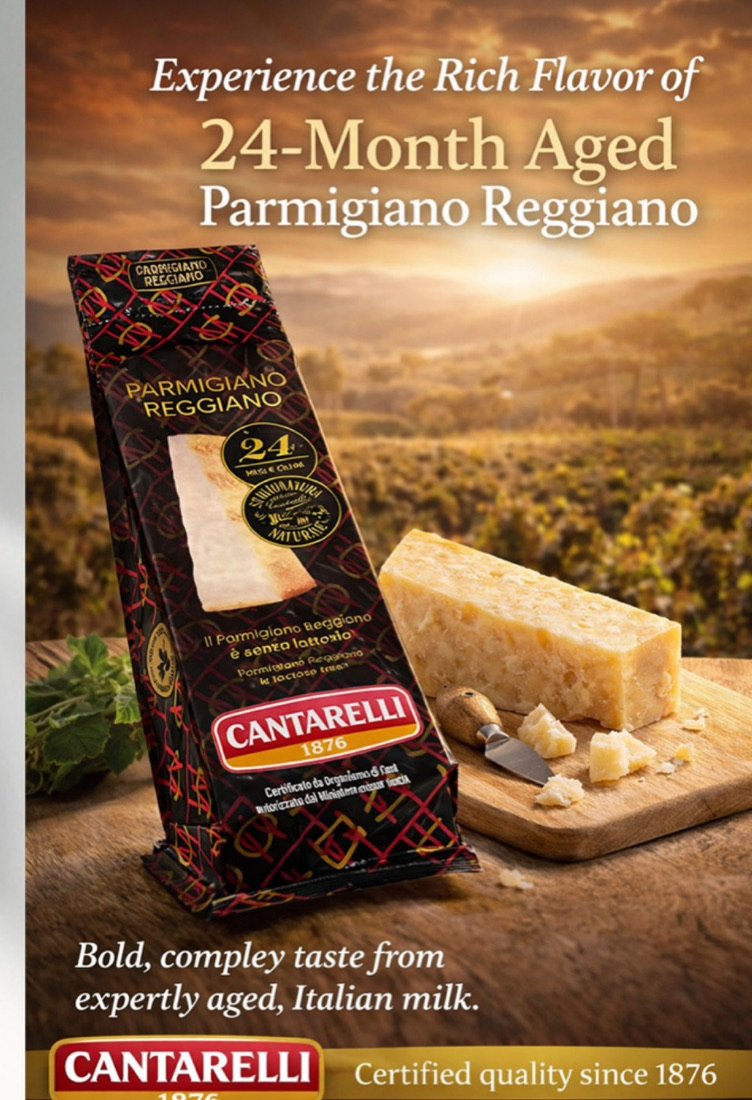
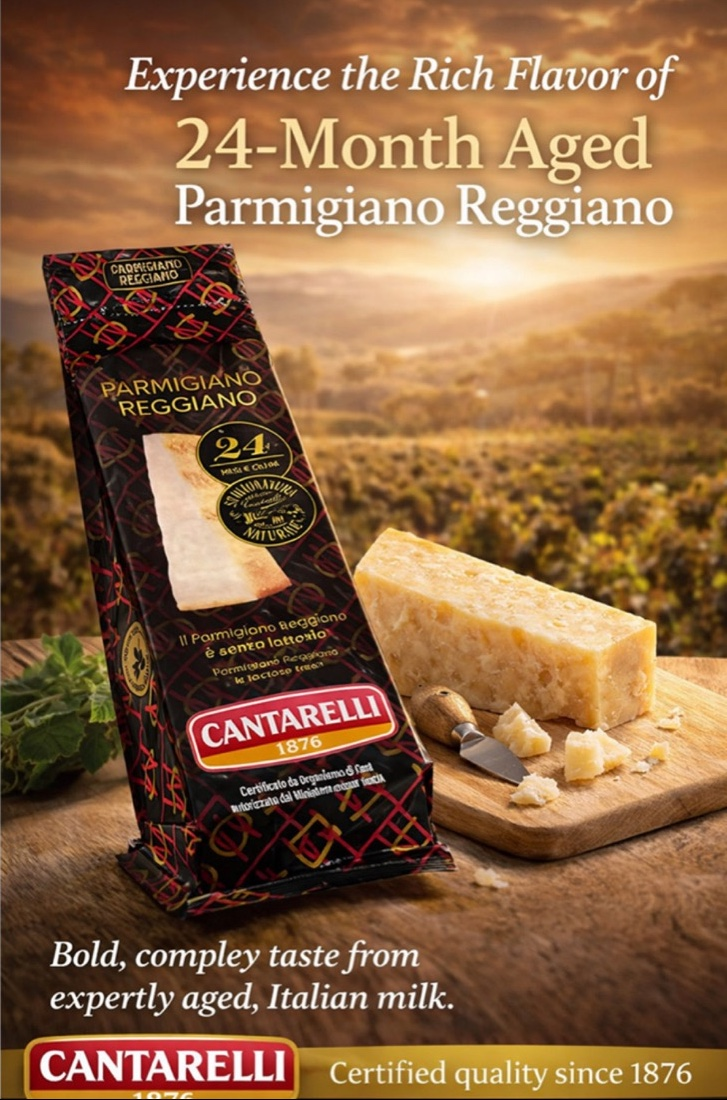
Product tiles: taller, whole photo over a blurred fill; trim poster borders

diff --git a/fr/index.html b/fr/index.html
@@ -21,7 +21,7 @@
 <link rel="preconnect" href="https://fonts.googleapis.com">
 <link rel="preconnect" href="https://fonts.gstatic.com" crossorigin>
 <link rel="stylesheet" href="https://fonts.googleapis.com/css2?family=Archivo:wdth,wght@100,500;100,600;112,600;112,700&family=Figtree:wght@400;500;600&display=swap">
-<link rel="stylesheet" href="/assets/css/site.css?v=c4ff51fc">
+<link rel="stylesheet" href="/assets/css/site.css?v=2146e703">
 <script src="/assets/js/site.js?v=d5d91cc8" defer></script>
 <script type="application/ld+json">{"@context": "https://schema.org", "@type": "WholesaleStore", "name": "Les Aliments Joe & Ray", "legalName": "Les Aliments Joe & Ray Ltée", "url": "https://alimentsjoeandray.com/fr/", "logo": "https://alimentsjoeandray.com/assets/img/logo.png", "image": "https://alimentsjoeandray.com/assets/img/hero-full.webp", "foundingDate": "1954", "telephone": "+1-514-729-6470", "faxNumber": "+1-514-376-9167", "description": "Importateur et distributeur familial à Saint-Léonard au service des restaurants, pizzerias, traiteurs et détaillants du Québec. Plus de 2 000 produits. Licence de l’ACIA.", "areaServed": "Quebec", "address": {"@type": "PostalAddress", "streetAddress": "6506 P.E. Lamarche", "addressLocality": "Saint-Léonard", "addressRegion": "QC", "postalCode": "H1P 1J4", "addressCountry": "CA"}}</script><script type="application/ld+json">{"@context": "https://schema.org", "@type": "FAQPage", "mainEntity": [{"@type": "Question", "name": "Quelles régions desservez-vous?", "acceptedAnswer": {"@type": "Answer", "text": "Nous distribuons partout au Québec et dans les régions avoisinantes."}}, {"@type": "Question", "name": "Comment devenir client?", "acceptedAnswer": {"@type": "Answer", "text": "Remplissez le formulaire ci-dessous ou appelez-nous au 514.729.6470. Nous ouvrirons votre compte et vos prix."}}, {"@type": "Question", "name": "Quel est votre minimum de commande?", "acceptedAnswer": {"@type": "Answer", "text": "500 $ pour les livraisons locales."}}, {"@type": "Question", "name": "Quels sont vos délais de livraison?", "acceptedAnswer": {"@type": "Answer", "text": "Les délais de livraison varient selon l’emplacement. Appelez-nous au 514.729.6470 pour connaître l’horaire de votre secteur."}}, {"@type": "Question", "name": "Puis-je avoir des commandes récurrentes?", "acceptedAnswer": {"@type": "Answer", "text": "Oui. Nous offrons des livraisons récurrentes selon l’horaire de votre cuisine."}}, {"@type": "Question", "name": "Puis-je passer une commande sur mesure?", "acceptedAnswer": {"@type": "Answer", "text": "Oui. Nous collaborons avec nos fournisseurs pour trouver des produits spécialisés pour votre entreprise."}}, {"@type": "Question", "name": "Quelles sont vos spécialités?", "acceptedAnswer": {"@type": "Answer", "text": "Les charcuteries, les fromages et les produits importés, surtout italiens."}}, {"@type": "Question", "name": "Offrez-vous des produits d’entretien et de papier?", "acceptedAnswer": {"@type": "Answer", "text": "Oui, une large gamme de produits d’entretien, d’emballage et de papier pour les entreprises alimentaires."}}, {"@type": "Question", "name": "Offrez-vous des programmes de sécurité alimentaire?", "acceptedAnswer": {"@type": "Answer", "text": "Oui. Nous détenons une licence d’importation de l’ACIA et appliquons des programmes de sécurité alimentaire et de rappel."}}, {"@type": "Question", "name": "Vos produits sont-ils locaux?", "acceptedAnswer": {"@type": "Answer", "text": "Nous offrons un mélange de produits locaux et importés selon vos besoins."}}]}</script>
 </head><body data-page="home">
@@ -160,49 +160,49 @@
     <ul class="product-grid">
       <li class="tile">
         <a href="/fr/product-catalogue/?q=parmigiano">
-          <span class="tile-img"><img src="/assets/img/products/parmigiano-reggiano.jpg" alt="" loading="lazy"></span>
+          <span class="tile-img"><img class="tile-bg" src="/assets/img/products/parmigiano-reggiano.jpg" alt="" aria-hidden="true" loading="lazy"><img src="/assets/img/products/parmigiano-reggiano.jpg" alt="" loading="lazy"></span>
           <span class="tile-cap"><span class="tile-name">Parmigiano Reggiano</span><span class="tile-meta">Fromage<span class="tile-ask">Demander un prix <svg class="i" aria-hidden="true"><use href="#i-arrow"/></svg></span></span></span>
         </a>
       </li>
       <li class="tile">
         <a href="/fr/product-catalogue/?q=pecorino">
-          <span class="tile-img"><img src="/assets/img/products/pecorino-mannoni.jpg" alt="" loading="lazy"></span>
+          <span class="tile-img"><img class="tile-bg" src="/assets/img/products/pecorino-mannoni.jpg" alt="" aria-hidden="true" loading="lazy"><img src="/assets/img/products/pecorino-mannoni.jpg" alt="" loading="lazy"></span>
           <span class="tile-cap"><span class="tile-name">Pecorino Mannoni</span><span class="tile-meta">Fromage<span class="tile-ask">Demander un prix <svg class="i" aria-hidden="true"><use href="#i-arrow"/></svg></span></span></span>
         </a>
       </li>
       <li class="tile">
         <a href="/fr/product-catalogue/?q=burrata">
-          <span class="tile-img"><img src="/assets/img/products/burrata.jpg" alt="" loading="lazy"></span>
+          <span class="tile-img"><img class="tile-bg" src="/assets/img/products/burrata.jpg" alt="" aria-hidden="true" loading="lazy"><img src="/assets/img/products/burrata.jpg" alt="" loading="lazy"></span>
           <span class="tile-cap"><span class="tile-name">Burrata</span><span class="tile-meta">Fromage<span class="tile-ask">Demander un prix <svg class="i" aria-hidden="true"><use href="#i-arrow"/></svg></span></span></span>
         </a>
       </li>
       <li class="tile">
         <a href="/fr/product-catalogue/?q=provolone">
-          <span class="tile-img"><img src="/assets/img/products/provolone-piccante.jpg" alt="" loading="lazy"></span>
+          <span class="tile-img"><img class="tile-bg" src="/assets/img/products/provolone-piccante.jpg" alt="" aria-hidden="true" loading="lazy"><img src="/assets/img/products/provolone-piccante.jpg" alt="" loading="lazy"></span>
           <span class="tile-cap"><span class="tile-name">Provolone piquant</span><span class="tile-meta">Fromage<span class="tile-ask">Demander un prix <svg class="i" aria-hidden="true"><use href="#i-arrow"/></svg></span></span></span>
         </a>
       </li>
       <li class="tile">
         <a href="/fr/product-catalogue/?q=coppini">
-          <span class="tile-img"><img src="/assets/img/products/coppini-olive-oil.jpg" alt="" loading="lazy"></span>
+          <span class="tile-img"><img class="tile-bg" src="/assets/img/products/coppini-olive-oil.jpg" alt="" aria-hidden="true" loading="lazy"><img src="/assets/img/products/coppini-olive-oil.jpg" alt="" loading="lazy"></span>
           <span class="tile-cap"><span class="tile-name">Huile d’olive Coppini</span><span class="tile-meta">Huiles et vinaigres<span class="tile-ask">Demander un prix <svg class="i" aria-hidden="true"><use href="#i-arrow"/></svg></span></span></span>
         </a>
       </li>
       <li class="tile">
         <a href="/fr/product-catalogue/?q=milano">
-          <span class="tile-img"><img src="/assets/img/products/andrea-milano-vinegars.jpg" alt="" loading="lazy"></span>
+          <span class="tile-img"><img class="tile-bg" src="/assets/img/products/andrea-milano-vinegars.jpg" alt="" aria-hidden="true" loading="lazy"><img src="/assets/img/products/andrea-milano-vinegars.jpg" alt="" loading="lazy"></span>
           <span class="tile-cap"><span class="tile-name">Vinaigres Andrea Milano</span><span class="tile-meta">Huiles et vinaigres<span class="tile-ask">Demander un prix <svg class="i" aria-hidden="true"><use href="#i-arrow"/></svg></span></span></span>
         </a>
       </li>
       <li class="tile">
         <a href="/fr/product-catalogue/?q=pistach">
-          <span class="tile-img"><img src="/assets/img/products/la-rosa-pistachio.jpg" alt="" loading="lazy"></span>
+          <span class="tile-img"><img class="tile-bg" src="/assets/img/products/la-rosa-pistachio.jpg" alt="" aria-hidden="true" loading="lazy"><img src="/assets/img/products/la-rosa-pistachio.jpg" alt="" loading="lazy"></span>
           <span class="tile-cap"><span class="tile-name">Crème de pistache La Rosa</span><span class="tile-meta">Tartinades<span class="tile-ask">Demander un prix <svg class="i" aria-hidden="true"><use href="#i-arrow"/></svg></span></span></span>
         </a>
       </li>
       <li class="tile">
         <a href="/fr/product-catalogue/?q=eva">
-          <span class="tile-img"><img src="/assets/img/products/acqua-eva.jpg" alt="" loading="lazy"></span>
+          <span class="tile-img"><img class="tile-bg" src="/assets/img/products/acqua-eva.jpg" alt="" aria-hidden="true" loading="lazy"><img src="/assets/img/products/acqua-eva.jpg" alt="" loading="lazy"></span>
           <span class="tile-cap"><span class="tile-name">Eau minérale Acqua eVa</span><span class="tile-meta">Boissons<span class="tile-ask">Demander un prix <svg class="i" aria-hidden="true"><use href="#i-arrow"/></svg></span></span></span>
         </a>
       </li></ul>

diff --git a/index.html b/index.html
@@ -21,7 +21,7 @@
 <link rel="preconnect" href="https://fonts.googleapis.com">
 <link rel="preconnect" href="https://fonts.gstatic.com" crossorigin>
 <link rel="stylesheet" href="https://fonts.googleapis.com/css2?family=Archivo:wdth,wght@100,500;100,600;112,600;112,700&family=Figtree:wght@400;500;600&display=swap">
-<link rel="stylesheet" href="/assets/css/site.css?v=c4ff51fc">
+<link rel="stylesheet" href="/assets/css/site.css?v=2146e703">
 <script src="/assets/js/site.js?v=d5d91cc8" defer></script>
 <script type="application/ld+json">{"@context": "https://schema.org", "@type": "WholesaleStore", "name": "Les Aliments Joe & Ray", "legalName": "Les Aliments Joe & Ray Ltée", "url": "https://alimentsjoeandray.com/", "logo": "https://alimentsjoeandray.com/assets/img/logo.png", "image": "https://alimentsjoeandray.com/assets/img/hero-full.webp", "foundingDate": "1954", "telephone": "+1-514-729-6470", "faxNumber": "+1-514-376-9167", "description": "Family-owned importer and distributor in Saint-Léonard serving restaurants, pizzerias, caterers and retailers across Quebec with 2,000+ products. CFIA-licensed.", "areaServed": "Quebec", "address": {"@type": "PostalAddress", "streetAddress": "6506 P.E. Lamarche", "addressLocality": "Saint-Léonard", "addressRegion": "QC", "postalCode": "H1P 1J4", "addressCountry": "CA"}}</script><script type="application/ld+json">{"@context": "https://schema.org", "@type": "FAQPage", "mainEntity": [{"@type": "Question", "name": "What areas do you serve?", "acceptedAnswer": {"@type": "Answer", "text": "We distribute throughout Quebec and surrounding areas."}}, {"@type": "Question", "name": "How do I become a customer?", "acceptedAnswer": {"@type": "Answer", "text": "Fill out the contact form below or call us at 514.729.6470. We’ll set up your account and pricing."}}, {"@type": "Question", "name": "What is your minimum order?", "acceptedAnswer": {"@type": "Answer", "text": "$500 for local deliveries."}}, {"@type": "Question", "name": "What are your delivery times?", "acceptedAnswer": {"@type": "Answer", "text": "Delivery times vary based on location. Call us at 514.729.6470 and we’ll confirm the schedule for your area."}}, {"@type": "Question", "name": "Can I set up recurring orders?", "acceptedAnswer": {"@type": "Answer", "text": "Yes. We offer recurring deliveries on the schedule that suits your kitchen."}}, {"@type": "Question", "name": "Can I place a custom order?", "acceptedAnswer": {"@type": "Answer", "text": "Yes. We work with our suppliers to source specialty products for your business."}}, {"@type": "Question", "name": "What products do you specialize in?", "acceptedAnswer": {"@type": "Answer", "text": "Deli meats, cheeses and imported specialty foods, mostly Italian."}}, {"@type": "Question", "name": "Do you carry sanitation and paper products?", "acceptedAnswer": {"@type": "Answer", "text": "Yes, a wide range of cleaning, packaging and paper products for food businesses."}}, {"@type": "Question", "name": "Do you offer food safety programs?", "acceptedAnswer": {"@type": "Answer", "text": "Yes. We hold a CFIA import licence and run food safety and product recall programs."}}, {"@type": "Question", "name": "Are your products locally sourced?", "acceptedAnswer": {"@type": "Answer", "text": "We carry a mix of local and imported products to fit your needs."}}]}</script>
 </head><body data-page="home">
@@ -160,49 +160,49 @@
     <ul class="product-grid">
       <li class="tile">
         <a href="/product-catalogue/?q=parmigiano">
-          <span class="tile-img"><img src="/assets/img/products/parmigiano-reggiano.jpg" alt="" loading="lazy"></span>
+          <span class="tile-img"><img class="tile-bg" src="/assets/img/products/parmigiano-reggiano.jpg" alt="" aria-hidden="true" loading="lazy"><img src="/assets/img/products/parmigiano-reggiano.jpg" alt="" loading="lazy"></span>
           <span class="tile-cap"><span class="tile-name">Parmigiano Reggiano</span><span class="tile-meta">Cheese<span class="tile-ask">Ask for pricing <svg class="i" aria-hidden="true"><use href="#i-arrow"/></svg></span></span></span>
         </a>
       </li>
       <li class="tile">
         <a href="/product-catalogue/?q=pecorino">
-          <span class="tile-img"><img src="/assets/img/products/pecorino-mannoni.jpg" alt="" loading="lazy"></span>
+          <span class="tile-img"><img class="tile-bg" src="/assets/img/products/pecorino-mannoni.jpg" alt="" aria-hidden="true" loading="lazy"><img src="/assets/img/products/pecorino-mannoni.jpg" alt="" loading="lazy"></span>
           <span class="tile-cap"><span class="tile-name">Pecorino Mannoni</span><span class="tile-meta">Cheese<span class="tile-ask">Ask for pricing <svg class="i" aria-hidden="true"><use href="#i-arrow"/></svg></span></span></span>
         </a>
       </li>
       <li class="tile">
         <a href="/product-catalogue/?q=burrata">
-          <span class="tile-img"><img src="/assets/img/products/burrata.jpg" alt="" loading="lazy"></span>
+          <span class="tile-img"><img class="tile-bg" src="/assets/img/products/burrata.jpg" alt="" aria-hidden="true" loading="lazy"><img src="/assets/img/products/burrata.jpg" alt="" loading="lazy"></span>
           <span class="tile-cap"><span class="tile-name">Burrata</span><span class="tile-meta">Cheese<span class="tile-ask">Ask for pricing <svg class="i" aria-hidden="true"><use href="#i-arrow"/></svg></span></span></span>
         </a>
       </li>
       <li class="tile">
         <a href="/product-catalogue/?q=provolone">
-          <span class="tile-img"><img src="/assets/img/products/provolone-piccante.jpg" alt="" loading="lazy"></span>
+          <span class="tile-img"><img class="tile-bg" src="/assets/img/products/provolone-piccante.jpg" alt="" aria-hidden="true" loading="lazy"><img src="/assets/img/products/provolone-piccante.jpg" alt="" loading="lazy"></span>
           <span class="tile-cap"><span class="tile-name">Provolone piccante</span><span class="tile-meta">Cheese<span class="tile-ask">Ask for pricing <svg class="i" aria-hidden="true"><use href="#i-arrow"/></svg></span></span></span>
         </a>
       </li>
       <li class="tile">
         <a href="/product-catalogue/?q=coppini">
-          <span class="tile-img"><img src="/assets/img/products/coppini-olive-oil.jpg" alt="" loading="lazy"></span>
+          <span class="tile-img"><img class="tile-bg" src="/assets/img/products/coppini-olive-oil.jpg" alt="" aria-hidden="true" loading="lazy"><img src="/assets/img/products/coppini-olive-oil.jpg" alt="" loading="lazy"></span>
           <span class="tile-cap"><span class="tile-name">Coppini olive oil</span><span class="tile-meta">Oils &amp; vinegars<span class="tile-ask">Ask for pricing <svg class="i" aria-hidden="true"><use href="#i-arrow"/></svg></span></span></span>
         </a>
       </li>
       <li class="tile">
         <a href="/product-catalogue/?q=milano">
-          <span class="tile-img"><img src="/assets/img/products/andrea-milano-vinegars.jpg" alt="" loading="lazy"></span>
+          <span class="tile-img"><img class="tile-bg" src="/assets/img/products/andrea-milano-vinegars.jpg" alt="" aria-hidden="true" loading="lazy"><img src="/assets/img/products/andrea-milano-vinegars.jpg" alt="" loading="lazy"></span>
           <span class="tile-cap"><span class="tile-name">Andrea Milano vinegars</span><span class="tile-meta">Oils &amp; vinegars<span class="tile-ask">Ask for pricing <svg class="i" aria-hidden="true"><use href="#i-arrow"/></svg></span></span></span>
         </a>
       </li>
       <li class="tile">
         <a href="/product-catalogue/?q=pistach">
-          <span class="tile-img"><img src="/assets/img/products/la-rosa-pistachio.jpg" alt="" loading="lazy"></span>
+          <span class="tile-img"><img class="tile-bg" src="/assets/img/products/la-rosa-pistachio.jpg" alt="" aria-hidden="true" loading="lazy"><img src="/assets/img/products/la-rosa-pistachio.jpg" alt="" loading="lazy"></span>
           <span class="tile-cap"><span class="tile-name">La Rosa pistachio cream</span><span class="tile-meta">Sweet spreads<span class="tile-ask">Ask for pricing <svg class="i" aria-hidden="true"><use href="#i-arrow"/></svg></span></span></span>
         </a>
       </li>
       <li class="tile">
         <a href="/product-catalogue/?q=eva">
-          <span class="tile-img"><img src="/assets/img/products/acqua-eva.jpg" alt="" loading="lazy"></span>
+          <span class="tile-img"><img class="tile-bg" src="/assets/img/products/acqua-eva.jpg" alt="" aria-hidden="true" loading="lazy"><img src="/assets/img/products/acqua-eva.jpg" alt="" loading="lazy"></span>
           <span class="tile-cap"><span class="tile-name">Acqua eVa mineral water</span><span class="tile-meta">Beverages<span class="tile-ask">Ask for pricing <svg class="i" aria-hidden="true"><use href="#i-arrow"/></svg></span></span></span>
         </a>
       </li></ul>

diff --git a/assets/css/site.css b/assets/css/site.css
@@ -212,10 +212,11 @@ body:has(.hero[data-hero="full"]) #about { padding-bottom: clamp(72px, 9vw, 120p
 /* products: 4 x 2 grid, every featured product visible */
 .product-grid { display: grid; grid-template-columns: repeat(4, 1fr); gap: 32px 20px; }
 .tile a { display: flex; flex-direction: column; color: var(--ink); text-decoration: none; }
-/* the posters are about 2:3; the slight zoom trims the thin white edges baked into some of them */
-.tile-img { display: block; aspect-ratio: 2 / 3; border-radius: var(--r); overflow: hidden; background: var(--mist-grey); }
-.tile img { width: 100%; height: 100%; object-fit: cover; transform: scale(1.04); transition: transform .5s var(--ease); }
-.tile a:hover img { transform: scale(1.08); }
+/* whole photo, never cropped; a blurred copy of the same photo fills the rest of the tile */
+.tile-img { position: relative; display: block; aspect-ratio: 13 / 20; border-radius: var(--r); overflow: hidden; background: var(--mist-grey); isolation: isolate; }
+.tile-img img { position: relative; width: 100%; height: 100%; object-fit: contain; transition: transform .5s var(--ease); }
+.tile-img .tile-bg { position: absolute; inset: 0; z-index: -1; object-fit: cover; filter: blur(22px) saturate(1.1); transform: scale(1.25); opacity: .9; }
+.tile a:hover .tile-img img:not(.tile-bg) { transform: scale(1.03); }
 .tile-cap { display: flex; flex-direction: column; gap: 2px; padding: 16px 2px 0; }
 .tile-name { font-family: var(--display); font-variation-settings: "wdth" 112; font-weight: 700; font-size: 1.1rem; letter-spacing: -.01em; line-height: 1.2; transition: color .15s; }
 .tile a:hover .tile-name { color: var(--green-800); }

diff --git a/fr/product-catalogue/index.html b/fr/product-catalogue/index.html
@@ -21,7 +21,7 @@
 <link rel="preconnect" href="https://fonts.googleapis.com">
 <link rel="preconnect" href="https://fonts.gstatic.com" crossorigin>
 <link rel="stylesheet" href="https://fonts.googleapis.com/css2?family=Archivo:wdth,wght@100,500;100,600;112,600;112,700&family=Figtree:wght@400;500;600&display=swap">
-<link rel="stylesheet" href="/assets/css/site.css?v=c4ff51fc">
+<link rel="stylesheet" href="/assets/css/site.css?v=2146e703">
 <script src="/assets/js/site.js?v=d5d91cc8" defer></script>
 
 </head><body data-page="catalogue">

diff --git a/product-catalogue/index.html b/product-catalogue/index.html
@@ -21,7 +21,7 @@
 <link rel="preconnect" href="https://fonts.googleapis.com">
 <link rel="preconnect" href="https://fonts.gstatic.com" crossorigin>
 <link rel="stylesheet" href="https://fonts.googleapis.com/css2?family=Archivo:wdth,wght@100,500;100,600;112,600;112,700&family=Figtree:wght@400;500;600&display=swap">
-<link rel="stylesheet" href="/assets/css/site.css?v=c4ff51fc">
+<link rel="stylesheet" href="/assets/css/site.css?v=2146e703">
 <script src="/assets/js/site.js?v=d5d91cc8" defer></script>
 
 </head><body data-page="catalogue">

diff --git a/build.py b/build.py
@@ -326,12 +326,13 @@ def home(lang):
     # second copy makes the marquee loop seamlessly; hidden from AT and tab order
     logos = "".join(logo(b, False) for b in C["brands"]["items"]) + "".join(logo(b, True) for b in C["brands"]["items"])
 
-    # product grid: every featured product at once, whole photo visible
+    # product grid: every featured product at once. The whole photo shows; a blurred copy behind it
+    # fills any space left by photos that are wider than the tile
     ask = get("products.ask", lang)
     prods = "".join(f"""
       <li class="tile">
         <a href="{cat}?q={quote(p['q'])}">
-          <span class="tile-img"><img src="/assets/img/products/{p['img']}" alt="" loading="lazy"></span>
+          <span class="tile-img"><img class="tile-bg" src="/assets/img/products/{p['img']}" alt="" aria-hidden="true" loading="lazy"><img src="/assets/img/products/{p['img']}" alt="" loading="lazy"></span>
           <span class="tile-cap"><span class="tile-name">{tr(p['name'], lang)}</span><span class="tile-meta">{tr(p['origin'], lang)}<span class="tile-ask">{ask} {icon("arrow")}</span></span></span>
         </a>
       </li>""" for p in C["products"]["items"])
